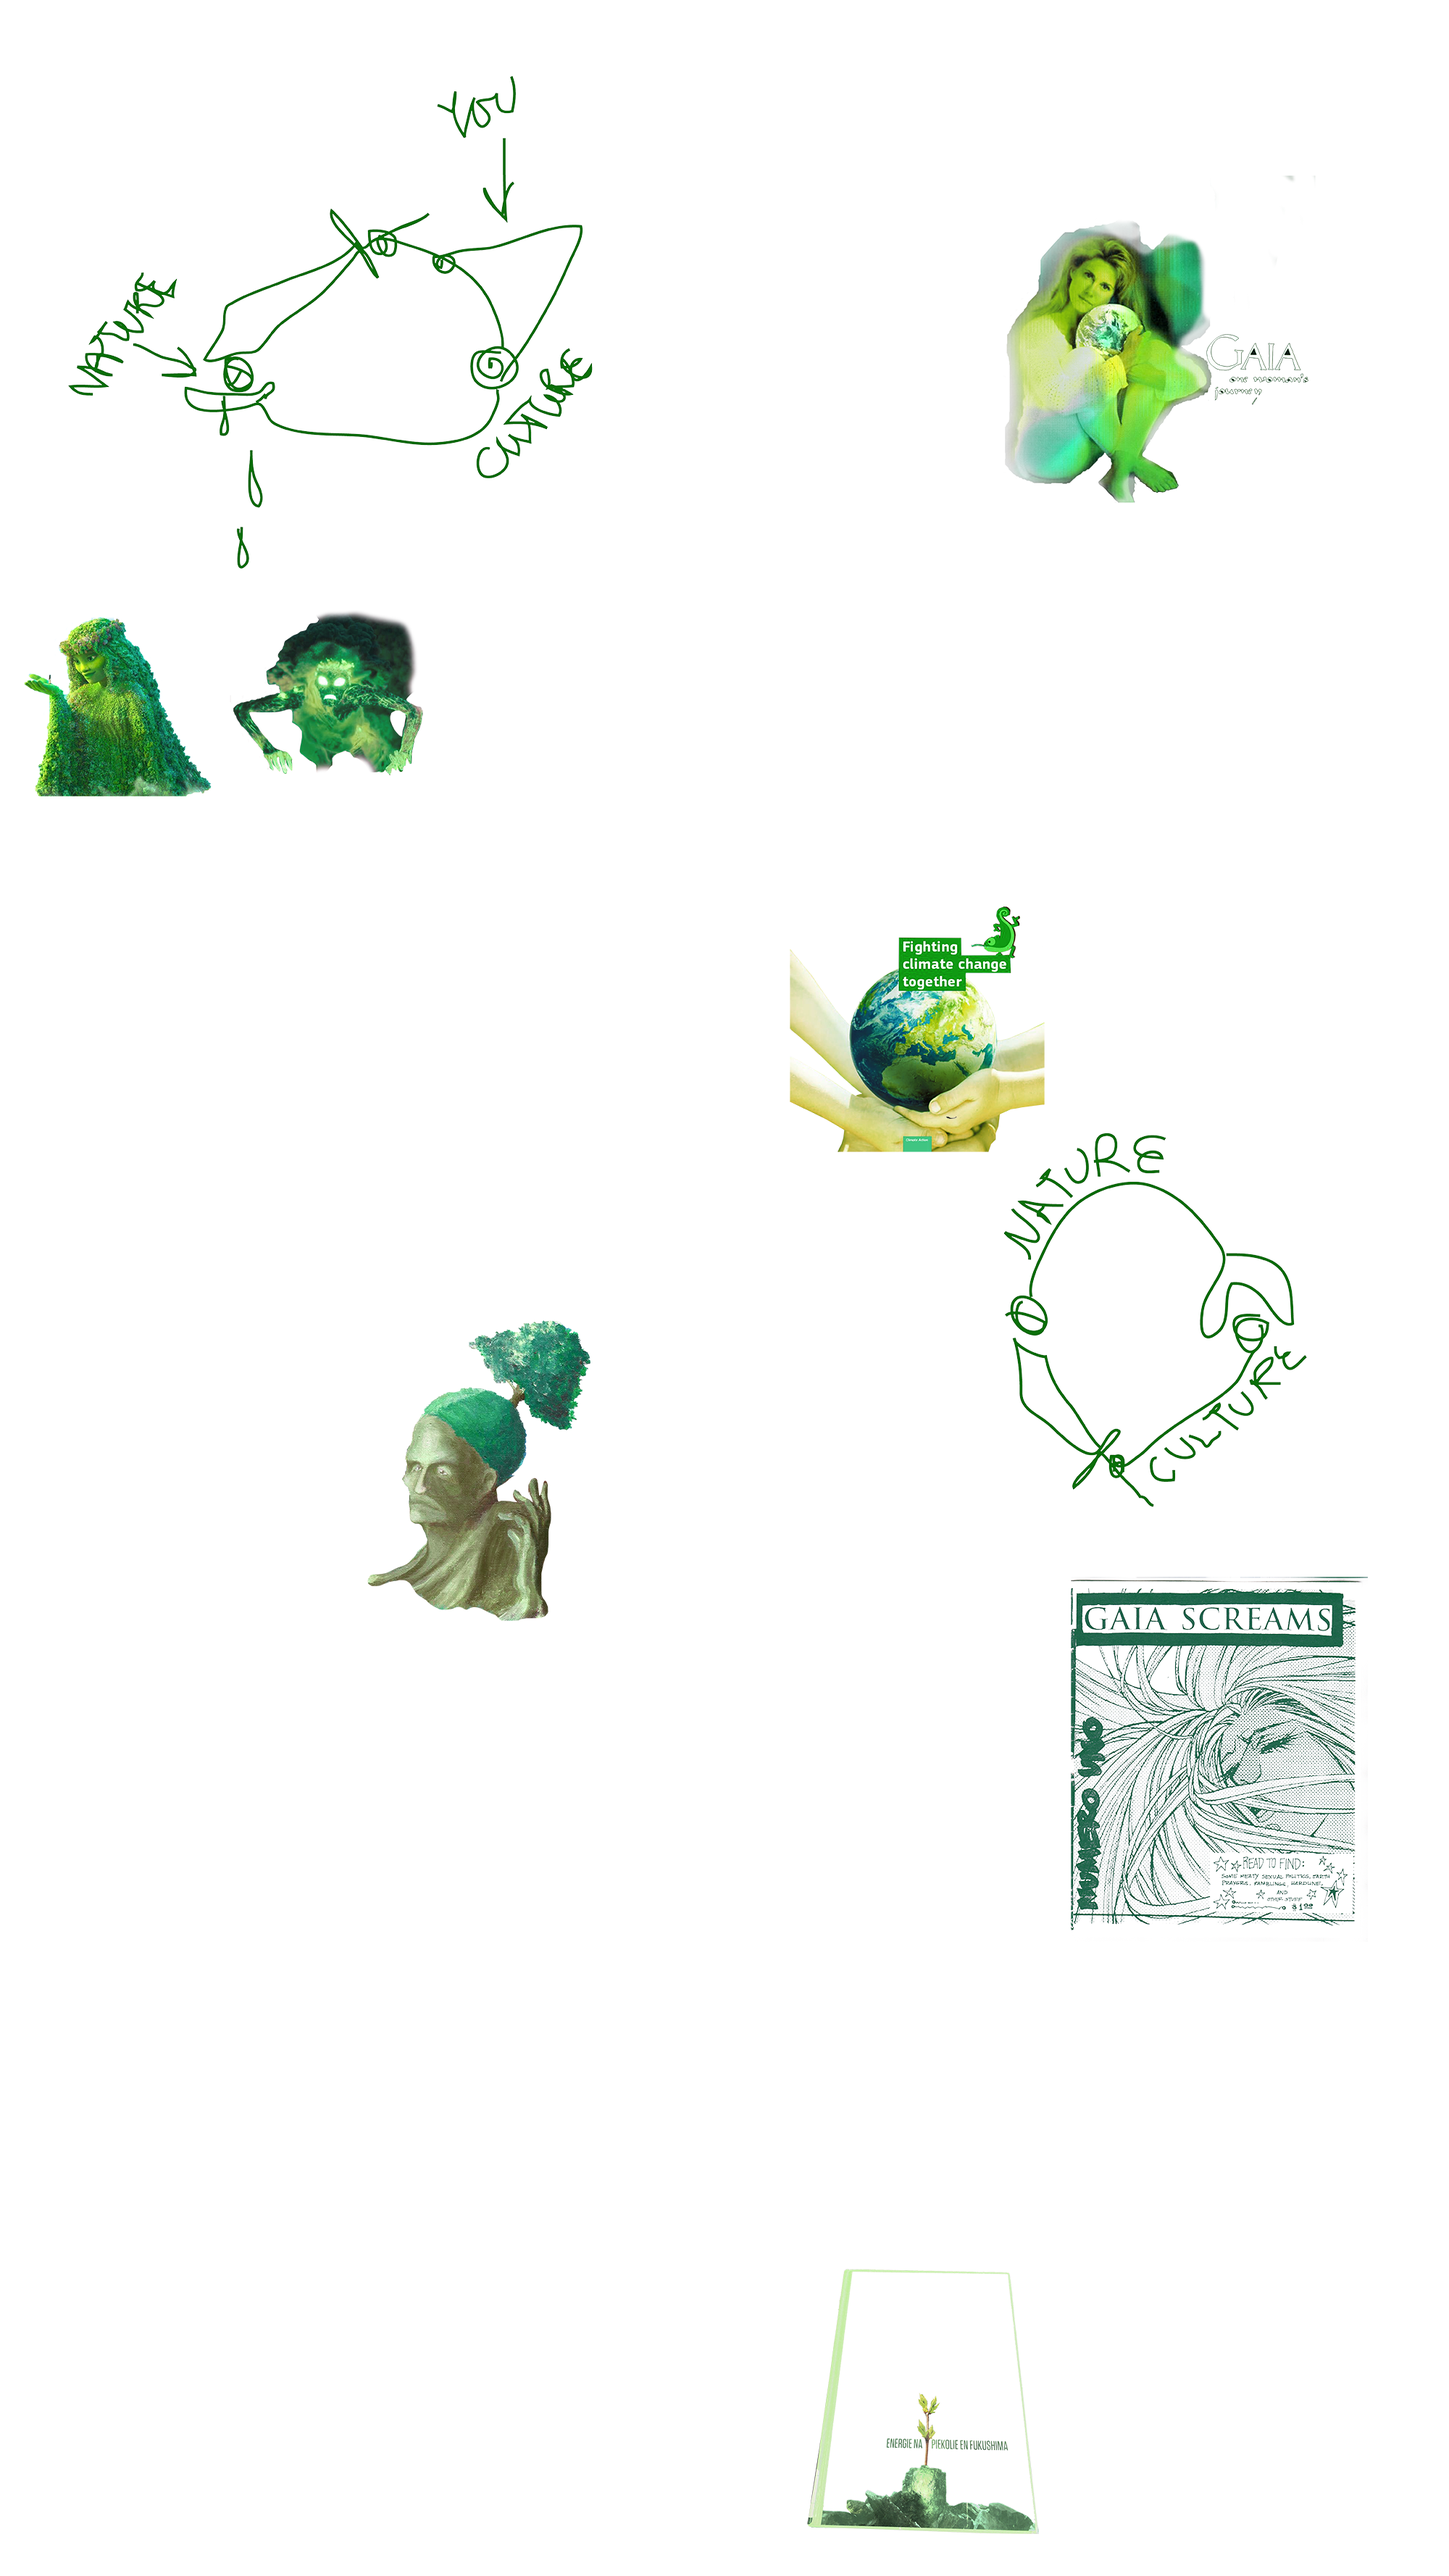
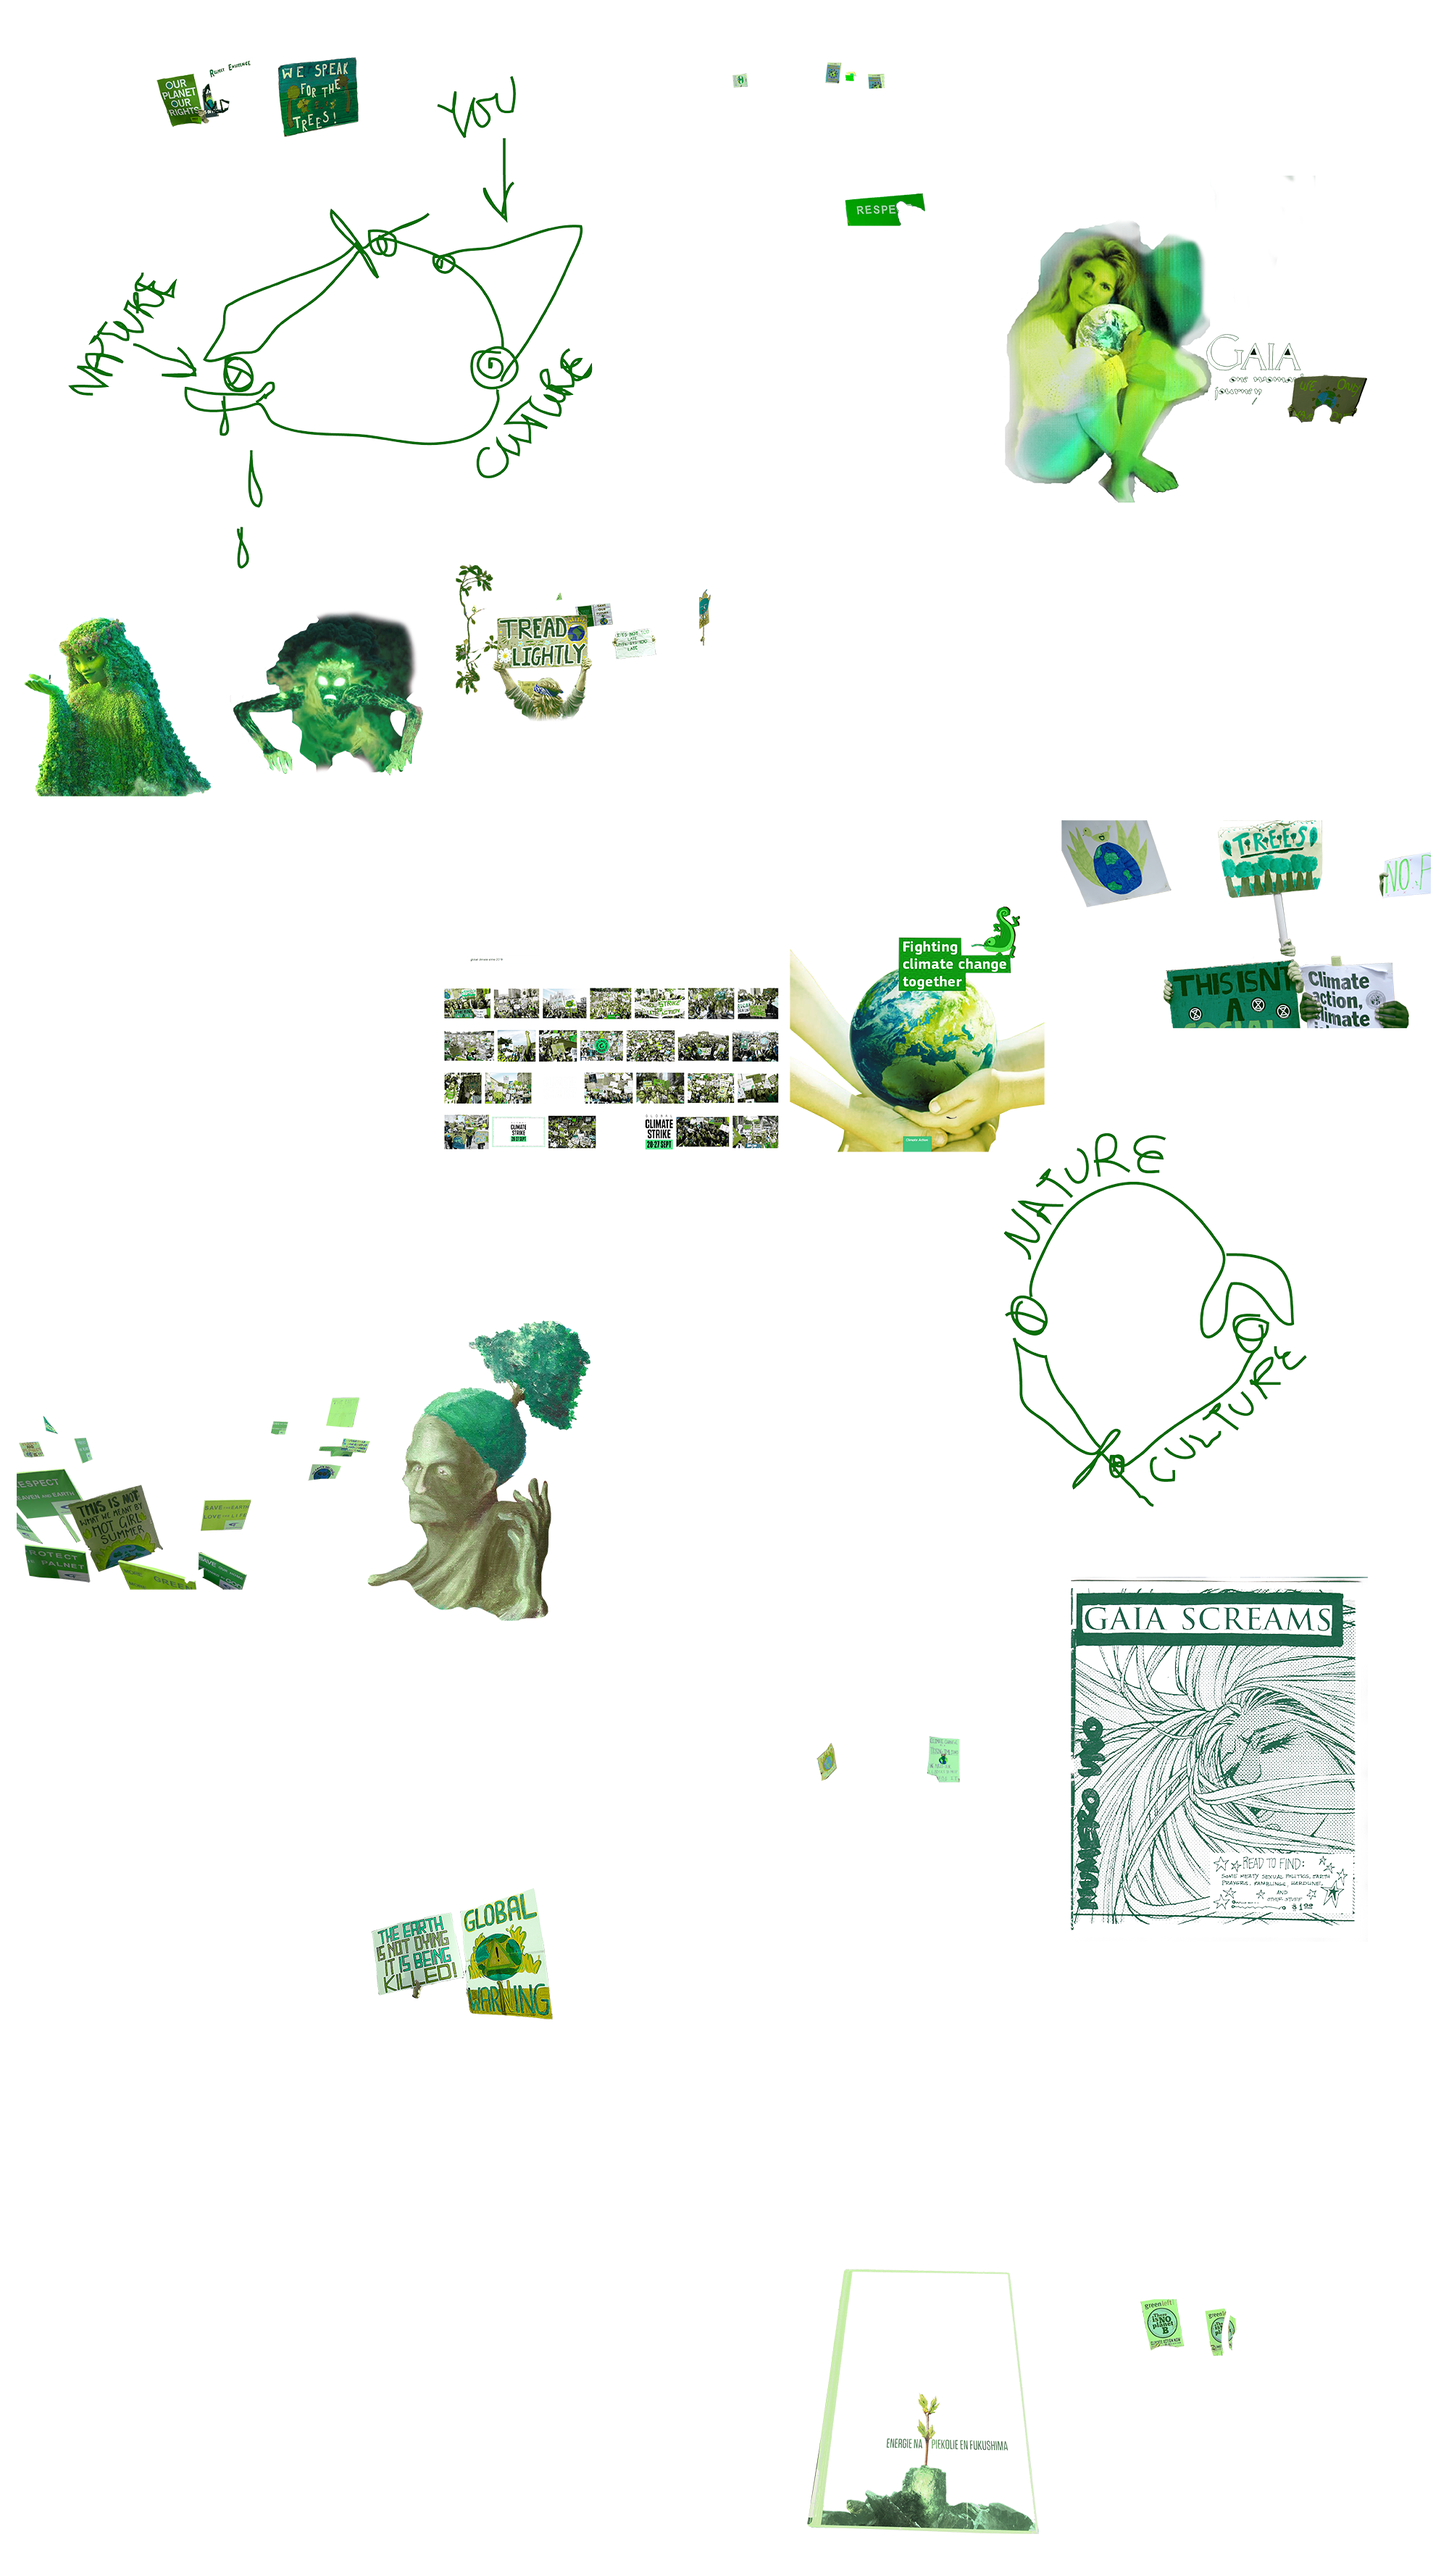
n

diff --git a/index.html b/index.html
@@ -109,7 +109,7 @@
 
   <div class="textContainer">
     <div class="greinTexti">
-		<p class="withoutbackground"><img style="position: fixed; position: absolute; z-index: -1; top: 18vh; left: 30px; width: 75vw;" class="myndITexta100" src="igms/dinamic/dinamic poster_0.jpg"></p>
+		<!--<p class="withoutbackground"><img style="position: fixed; position: absolute; z-index: -1; top: 18vh; left: 30px; width: 75vw;" class="myndITexta100" src="igms/dinamic/dinamic poster_0.jpg"></p>-->
 	</div>
   </div>
 </section>
@@ -117,6 +117,8 @@
 <section class="container abstract">
   
   <div class="titill">Abstract</div>
+
+  <p class="withoutbackground"><img class="myndITexta100 withoutbackground firstImage" src="igms/dinamic/dinamic poster_0_new.png"></p>
 
   <div class="textContainer">
     <div class="greinTexti">
@@ -145,12 +147,15 @@
 
 <section class="container preface">
   
-  <div class="titill lineheightundertitle">PREFACE<br><span class="undertitle">on nature🌳</span></div>
+  <div class="titill lineheightundertitle">PREFACE<br><span class="undertitle">on nature<!--🌳--></span></div>
+
+  <p class="withoutbackground"><img class="myndITexta100 withoutbackground firstImage" src="igms/dinamic/dinamic poster_1.png"></p>
 
   <div class="textContainer">
     <div class="greinTexti">
 
-    <p class="withoutbackground" style="height: calc(100% - 50px); width: 100%;"><img class="myndITexta100" src="igms/dinamic/dinamic poster_1.png"></p>
+    <!--<p class="withoutbackground" style="height: calc(100% - 50px); width: 100%;"><img class="myndITexta100" src="igms/dinamic/dinamic poster_1.png"></p>-->
+    <p class="withoutbackground" style="height: calc(100% - 50px); width: 100%;"></p>
 
     <p>According to the Cambridge Dictionary, nature is “all the animals, plants, rocks, etc. in the world and all the features, forces, and processes that happen or exist independently of people, such as the weather, the sea, mountains, the production of young animals or plants, and growth”.<sup>1</sup></p>
 
@@ -179,7 +184,7 @@
   <div class="textContainer">
     <div class="greinTexti">
 	    <a href="#abstractlink">ABSTRACT</a><br>
-		<a href="#prefacelink">PREFACE on nature 🌳</a><br>
+		<a href="#prefacelink">PREFACE on nature</a><br>
 		INDEX<br>
 		<a href="#introlink">INTRO on colours</a><br>
 		<a href="#romancelink">ROMANCE</a><br>
@@ -200,11 +205,13 @@
   
   <div class="titill lineheightundertitle">Intro<br><span class="undertitle">on colours</span></div>
 
+  <p class="withoutbackground"><img class="myndITexta100 withoutbackground firstImage" src="igms/dinamic/dinamic poster_2.png"></p>
+
 
   <div class="textContainer">
     <div class="greinTexti">
 
-    <p  class="withoutbackground"style="height: calc(100% - 50px); width: 100%;"><img class="myndITexta100" src="igms/dinamic/dinamic poster_2.png"></p>
+    <p  class="withoutbackground" style="height: calc(100% - 50px); width: 100%;"></p>
 
     <p>“Green has become our synonym for sustainability, but such a colorful ascription begs the question of exactly what mode of being we are attempting to sustain, and at what environmental cost.”3</p>
 
@@ -236,7 +243,7 @@
   
   <div class="titill">Romance</div>
 
-  <p class="withoutbackground"><img class="myndITexta100 withoutbackground" style="position: absolute; top: 18vh; left: 30px; width: 75vw; pointer-events: none;" src="igms/dinamic/dinamic poster_3.png"></p>
+  <p class="withoutbackground"><img class="myndITexta100 withoutbackground firstImage" src="igms/dinamic/dinamic poster_3.png"></p>
 
   <div class="textContainer">
     <div class="greinTexti">
@@ -394,6 +401,8 @@
 
   <div class="textContainer">
     <div class="greinTexti">
+
+    <p class="withoutbackground" style="height: calc(100% - 50px); width: 100%;"><img class="myndITexta100" src="igms/dinamic/dinamic poster_6.png"></p>
 
     <p>Artists and designers have collectively procrastinated on this topic for centuries, with few exceptions. Latour suggested that the “climate is something so complex and big and hard, so we need many years of art and scientific collaboration to begin to have the right characters for politics.”32 But I would argue that this lack of nuance is not due to lack of time, but rather lack of interest. A lack of interest due to boring (in my humble opinion) and repetitive, exclusively "nature"-related visuals and connotations. Along with, quite frankly, a fear of the hippie label. The first Earth day was held in April 1971, and that same year Greenpeace was founded. Marvin Gaye released ‘What’s Going On’ with singles such as ‘Save the Children’ and previously mentioned ‘Mercy, Mercy Me (The Ecology)’.<br>
 

diff --git a/8jan.css b/8jan.css
@@ -30,6 +30,16 @@ Version: 0.0.5
   }
 
 
+
+
+/*  ----- 
+-- prófa að breyta milli padding og margin til að sjá hvort columnarnir byrji uppi
+-- setja bakgrunnsmynd aftast
+-- hafa mynd fremst á abstract
+-- laga litla bugga
+*/
+
+
 body {
   height: 100vh;
   width: 100vw;
@@ -289,7 +299,7 @@ a {
   margin-bottom: 50px;
   margin-right: 30px;
 
-  background-color: rgba(235,255,235,1);
+  /*background-color: rgba(235,255,235,1);*/
 }
 .withoutbackground {
   background-color: rgba(0,0,0,0) !important;
@@ -337,6 +347,19 @@ a {
   /*float: right;*/
   width: 100vw;
 }
+.firstImage {
+  position: absolute; 
+  top: 18vh; 
+  left: 30px; 
+  width: 75vw; 
+  pointer-events: none;
+  z-index: -1;
+}
+
+
+
+
+
 .quote {
   text-align: center !important;
   font: 40px 'liberage';
